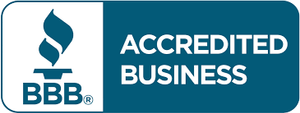
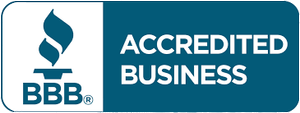
implement visual improvements

diff --git a/src/components/Portales.tsx b/src/components/Portales.tsx
@@ -6,28 +6,28 @@ function Portales() {
       <Button
         radius="full"
         variant="shadow"
-        className="bg-yellow-400 m-1 hover:bg-yellow-200 sm:size-1/5 md:text-lg md:size-1/4 lg:size-1/3 lg:m-3 lg:text-2xl"
+        className="bg-yellow-400 m-1 hover:bg-yellow-200 sm:size-1/5 md:text-lg md:size-1/4 lg:size-1/4 lg:m-3 lg:text-2xl"
       >
         Borrower
       </Button>
       <Button
         radius="full"
         variant="shadow"
-        className="bg-yellow-400 m-1 hover:bg-yellow-200 sm:size-1/5 md:text-lg md:size-1/4 lg:size-1/3 lg:m-3 lg:text-2xl"
+        className="bg-yellow-400 m-1 hover:bg-yellow-200 sm:size-1/5 md:text-lg md:size-1/4 lg:size-1/4 lg:m-3 lg:text-2xl"
       >
         Installer
       </Button>
       <Button
         radius="full"
         variant="shadow"
-        className="bg-yellow-400 m-1 hover:bg-yellow-200 sm:size-1/5 md:text-lg md:size-1/4 lg:size-1/3 lg:m-3 lg:text-2xl"
+        className="bg-yellow-400 m-1 hover:bg-yellow-200 sm:size-1/5 md:text-lg md:size-1/4 lg:size-1/4 lg:m-3 lg:text-2xl"
       >
         Supplier
       </Button>
       <Button
         radius="full"
         variant="shadow"
-        className="bg-yellow-400 m-1 hover:bg-yellow-200 sm:size-1/5 md:text-lg md:size-1/4 lg:size-1/3 lg:m-3 lg:text-2xl"
+        className="bg-yellow-400 m-1 hover:bg-yellow-200 sm:size-1/5 md:text-lg md:size-1/4 lg:size-1/4 lg:m-3 lg:text-2xl"
       >
         Salesperson
       </Button>

diff --git a/src/app/Installer/Installer.tsx b/src/app/Installer/Installer.tsx
@@ -49,7 +49,7 @@ export default function Installer() {
       >
         <h1 className="font-InterBold text-center text-black text-md sm:text-3xl pb-10 mb-5 border-b-1">
           <span className="text-blue-600 pr-1">Skylight Lending New</span>
-          Dealer Application
+          <span className="dark:text-white">Dealer Application</span>
         </h1>
         <div className="w-full grid sm:grid-cols-2  sm:grid-rows-4 gap-x-5 dark:bg-black">
           <div className="h-auto flex flex-col">

diff --git a/src/components/Banner.tsx b/src/components/Banner.tsx
@@ -9,7 +9,7 @@ function Banner() {
       <div className={`${style.banner} absolute bg-background -bottom-1 w-full h-[30%] z-10`}>
         {" "}
       </div>
-      <div className={`${style.banner} absolute rotate-180 bg-background -top-0 w-full h-[30%] z-10`} >
+      <div className={`${style.banner} absolute rotate-180 bg-background -top-1 w-full h-[30%] z-10`} >
         {" "}
       </div>
       <Image className="h-full w-full object-cover" src={ImgBanner} alt="" />

diff --git a/src/components/footer.tsx b/src/components/footer.tsx
@@ -56,7 +56,7 @@ export default function Footer() {
 
         <div className="flex w-full h-16 justify-evenly md:justify-center">
           <Image
-            className="w-auto h-16 rounded-2xl"
+            className="w-auto h-16 rounded-xl"
             src={bbbLogo}
             alt="bbblogo"
           />

diff --git a/src/styles/App.module.css b/src/styles/App.module.css
@@ -1,7 +1,7 @@
 .poligono {
-    clip-path: polygon(100% 90%, 0% 100%, 100% 100%);
-  }
-  
-  .banner {
-    clip-path: polygon(0 0, 0% 100%, 100% 100%);
-  }
+  clip-path: polygon(100% 90%, 0% 100%, 100% 100%);
+}
+
+.banner {
+  clip-path: polygon(0 0, 0% 100%, 100% 99%);
+}

diff --git a/src/components/UI/AcmeLogo.tsx b/src/components/UI/AcmeLogo.tsx
@@ -1,5 +1,5 @@
 import imgAcme from "../../assets/logo-f-w.png";
-import imgAcmeBlack from "../../assets/logo/logo-black.jpg";
+import imgAcmeBlack from "../../assets/logo/logo-black.png";
 import Image from "next/image";
 export const AcmeLogo = () => (
   <div>
